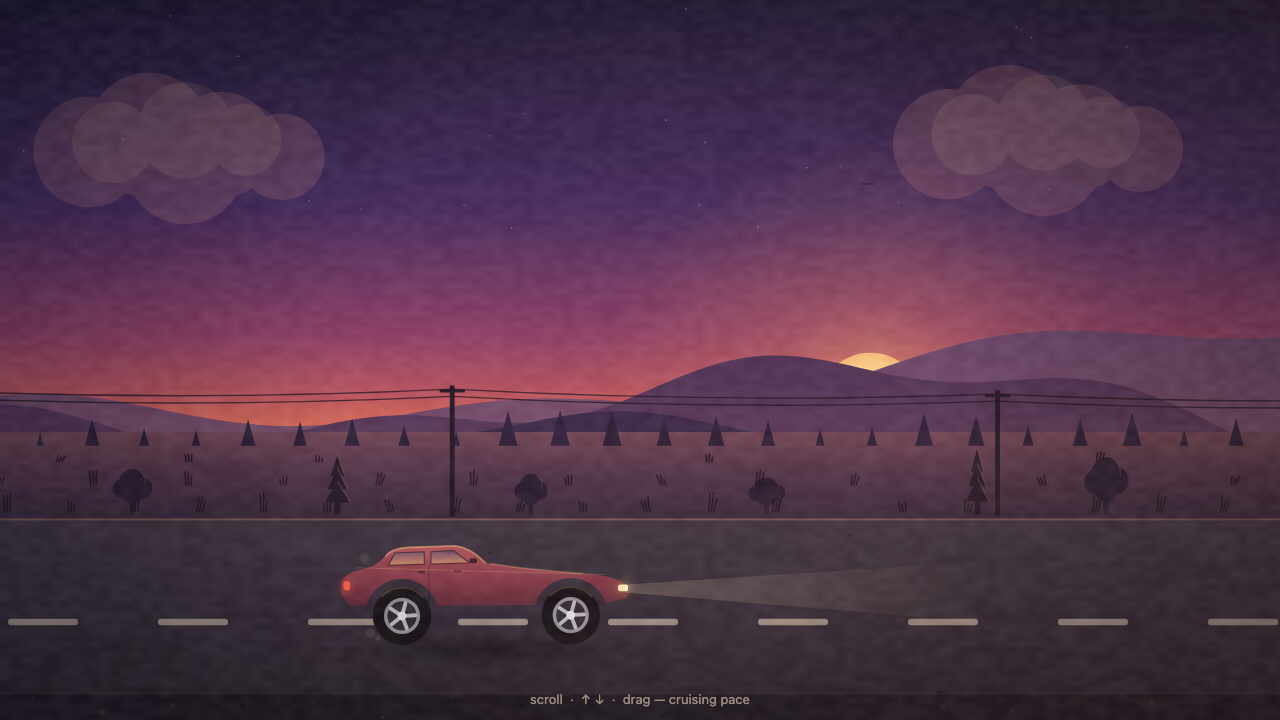
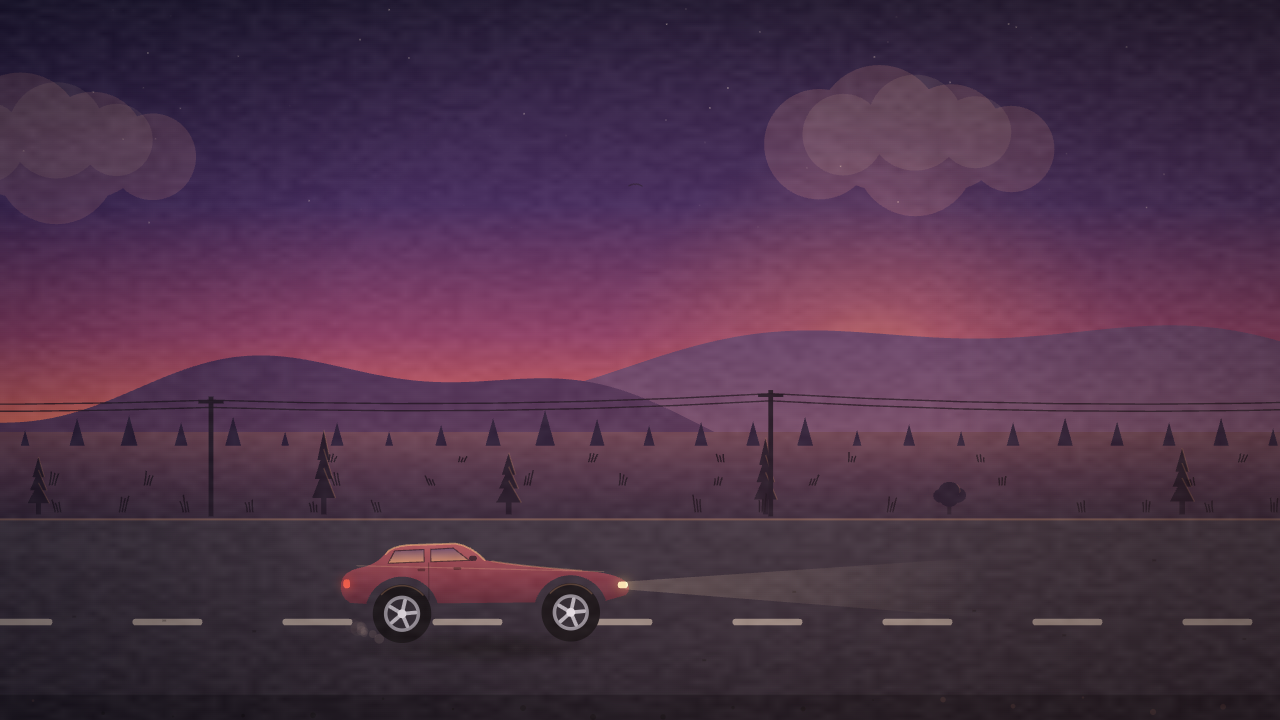
docs(streaming): live-render kimi-k3 screenshots, the headless captures ran dark

diff --git a/docs/streaming.md b/docs/streaming.md
@@ -82,7 +82,7 @@ watch the animation).
 
 | | |
 |---|---|
-| <a href="assets/perf/kimi-k3-ud-iq2xxs-car.html"><img src="assets/perf/kimi-k3-ud-iq2xxs-car.png" alt="Kimi-K3 UD-IQ2_XXS: deep-dusk scene, red coupe with a headlight beam under power lines, hills behind"></a><br>UD-IQ2_XXS, 662 GB file. One generation of 30.8k tokens (thinking included) at 1.34 tok/s, temperature 1.0. | <a href="assets/perf/kimi-k3-ud-q2kxl-car.html"><img src="assets/perf/kimi-k3-ud-q2kxl-car.png" alt="Kimi-K3 UD-Q2_K_XL: film-grain dusk scene, red sedan with a headlight cone, telegraph poles, layered hills and clouds"></a><br>UD-Q2_K_XL, 861 GB file (799 GB of experts stay file-backed). One generation of 23.7k tokens (thinking included) at 1.15 tok/s, temperature 1.0. |
+| <a href="assets/perf/kimi-k3-ud-iq2xxs-car.html"><img src="assets/perf/kimi-k3-ud-iq2xxs-car.png" alt="Kimi-K3 UD-IQ2_XXS: sunset scene, red coupe with a headlight beam under power lines, the sun low between hills"></a><br>UD-IQ2_XXS, 662 GB file. One generation of 30.8k tokens (thinking included) at 1.34 tok/s, temperature 1.0. | <a href="assets/perf/kimi-k3-ud-q2kxl-car.html"><img src="assets/perf/kimi-k3-ud-q2kxl-car.png" alt="Kimi-K3 UD-Q2_K_XL: film-grain dusk scene, red sedan with a headlight cone, telegraph poles, layered hills and clouds"></a><br>UD-Q2_K_XL, 861 GB file (799 GB of experts stay file-backed). One generation of 23.7k tokens (thinking included) at 1.15 tok/s, temperature 1.0. |
 
 Both pages ran as generated. The larger quant also added scroll and
 drag controls for the cruising pace that the prompt never asked for.
